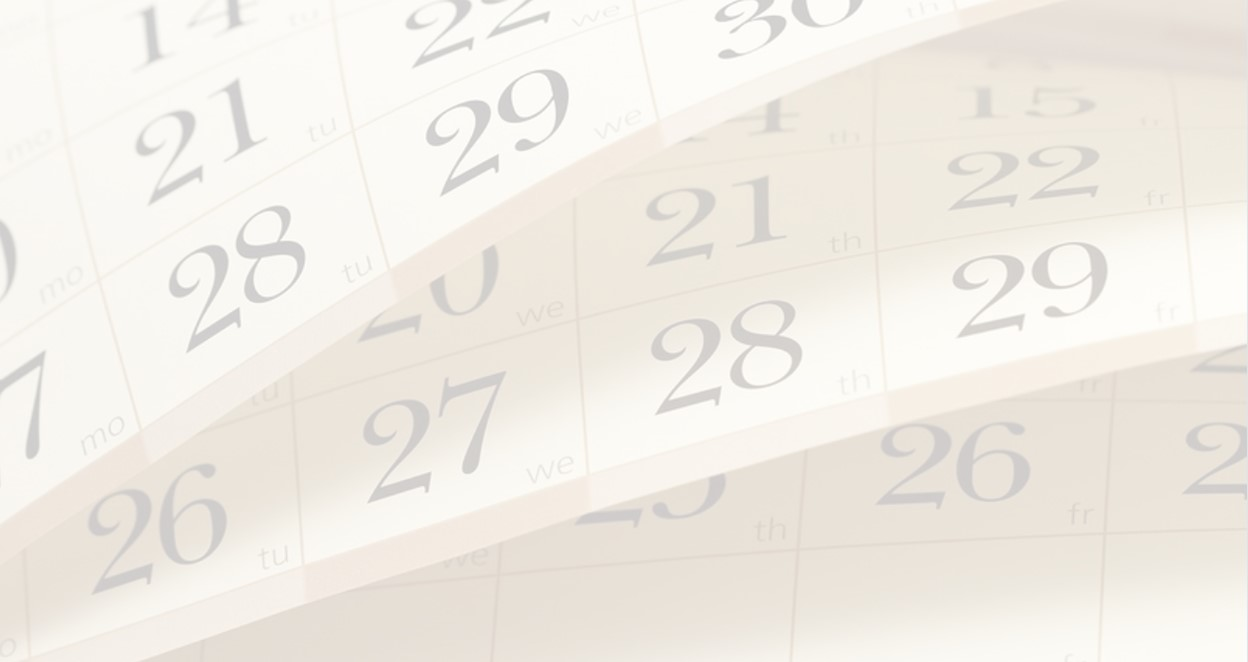
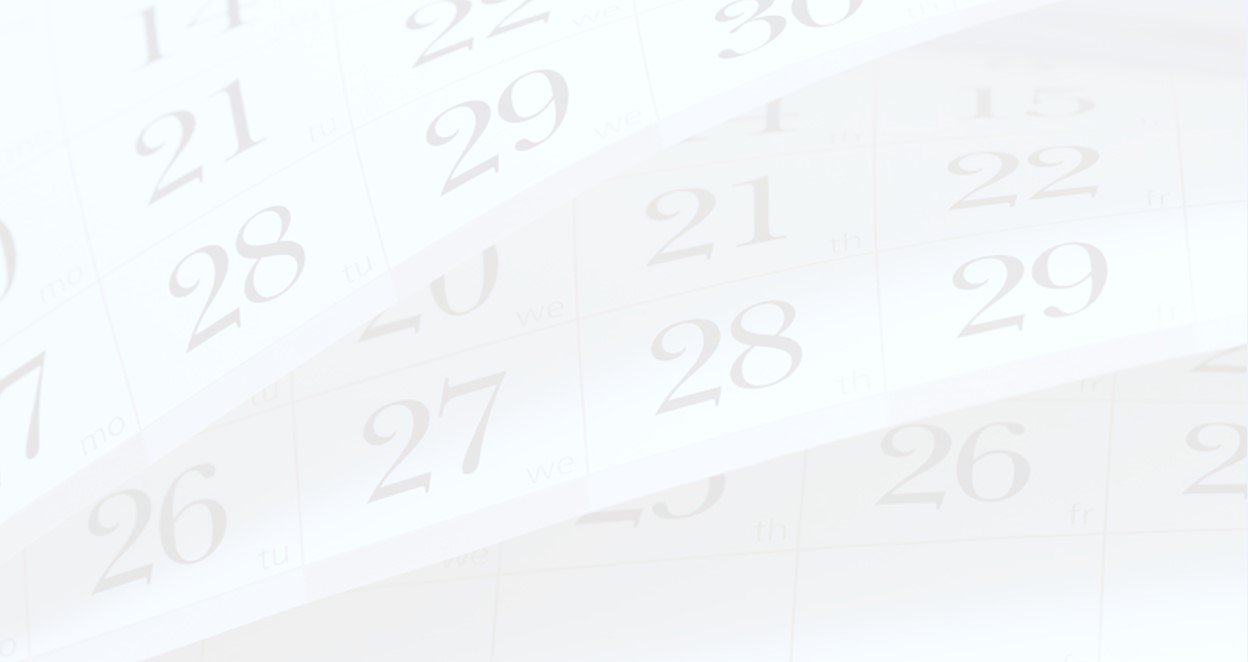
make background more transparent,

diff --git a/index.html b/index.html
@@ -7,12 +7,12 @@
     <style>
         body {
             font-family: Arial, sans-serif;
-            margin: 0;
-            padding: 0;
             background-image:url('images/transparentbgd.jpg');
             background-size:cover;
             background-repeat:no-repeat;
             background-attachment:fixed;
+            justify-content:center;
+
         }
         header {
             background-color: #26a69a;
@@ -35,6 +35,8 @@
         }
         section {
             padding: 5px;
+            text-align: center;
+            justify-content:center;
         }
         footer {
             background-color: #00796b;
@@ -49,12 +51,14 @@
         display: flex;
         overflow-x: auto;
         scroll-snap-type: x mandatory;
+        justify-content:center;
         }
         .slide {
         flex: 0 0 auto;
         scroll-snap-align: start;
         padding: 20px;
         max-width:500px;
+
         }
     </style>
     <script>
@@ -115,10 +119,11 @@
     </section>
     <section>
         <h2>Promotional Video</h2>
-        <iframe width="560" height="315" src="https://www.youtube.com/embed/xb9Ag91P0Es" frameborder="0" allowfullscreen></iframe>
+        <iframe width="1120" height="630" src="https://www.youtube.com/embed/xb9Ag91P0Es" frameborder="0" allowfullscreen></iframe>
     </section>
     <section>
         <h2>Design Process</h2>
+        <p> Note:High Fidelity Prototype is available on the Tab above</p>
         <h3> Low Fidelity Prototype</h3>
         <div class ="carousel">
             <button class="prev-slide">Previous</button>
@@ -144,10 +149,9 @@
             </div>
             <button class="next-slide">Next</button>
         </div>
-        <h3>High Fidelity Prototype is available on the Prototype Tab above</h3>
     </section>
     <section>
-        <p>User evaluation analysis</p>
+        <h2>User evaluation analysis</h2>
     </section>
     <section>
         <h2>Insights based on Peer Reviews</h2>
